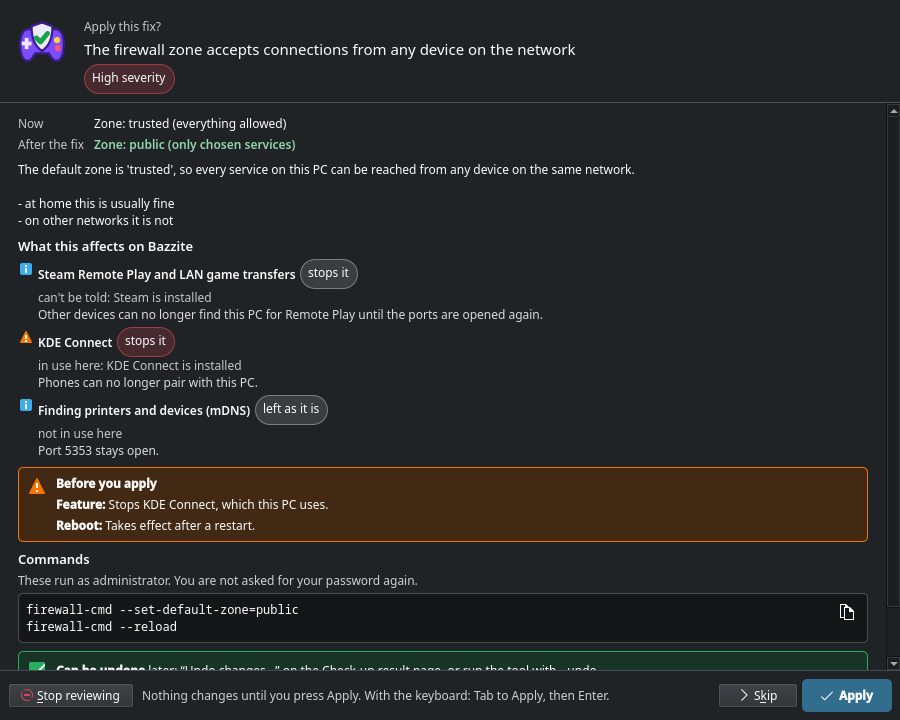
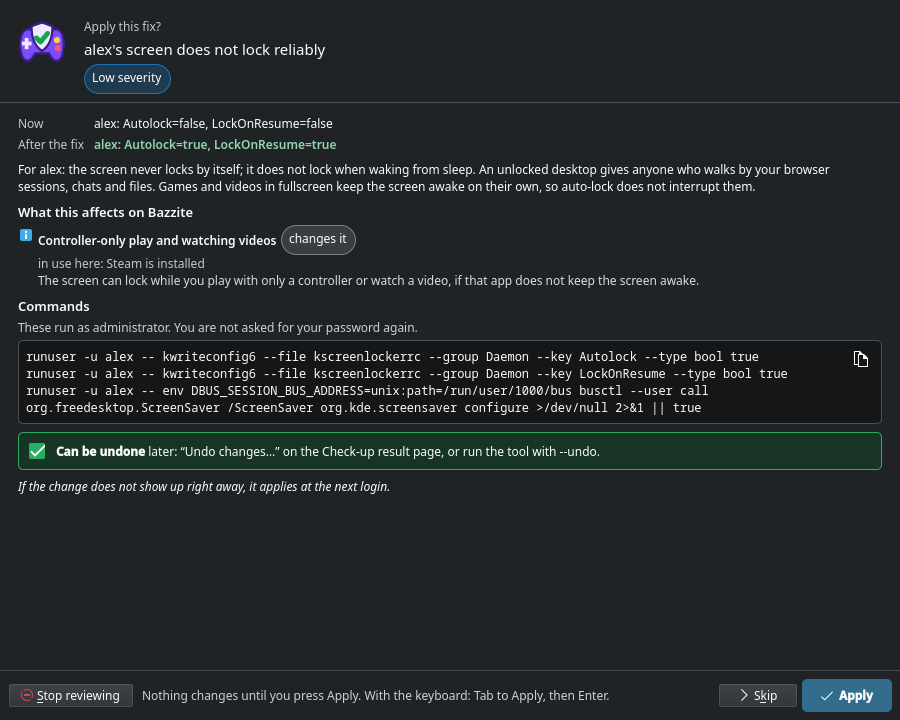
README screenshots: real fix data, numbers that add up, the whole page
- The picture of a fix shows the real screen-lock fix: the sample
  "confirm-readme" is what the root side sends for it, made by
  tests/ui/readme-confirm.sh (no root), and make test fails when the two
  differ. It is short enough that "Can be undone" is in view.
- The check-up result's sample: fixed 3 (2 checked again, 1 after a
  reboot), so the numbers add up.
- The readme scenario makes no pictures without the Breeze dark scheme
  and an icon theme (it fails instead); a picture that cannot be saved
  fails the run. docs/ui.md says how to make them.
- README: the fix on a row of its own, the progress window under it; alt
  texts say what each picture shows. CHANGELOG: one line for the pictures.

diff --git a/tests/ui-offscreen.py b/tests/ui-offscreen.py
@@ -281,7 +281,8 @@ def key(k, repeat=False, text=""):
 
 def shot(name, win=None):
     if SHOTS:
-        (win or shell).grabWindow().save(os.path.join(SHOTS, name + ".png"))
+        path = os.path.join(SHOTS, name + ".png")
+        check((win or shell).grabWindow().save(path), "picture saved: %s" % path)
 
 
 def prop(name):
@@ -3186,21 +3187,32 @@ def sc_contrast():
 
 
 def sc_readme():
-    """The README's pictures (docs/screenshots), from the sample data in the
-    dark theme where it is installed: the wizard's first step, the check-up
-    result, a fix to confirm, and the progress window holding at 90% during
-    the malware scan (the line ui_progress_set sends for it). Made with
-    --shots DIR readme; without --shots it only checks that each one shows."""
+    """The README's pictures (docs/screenshots), made with
+    "--shots DIR readme" and copied to docs/screenshots: the wizard's first
+    step, the check-up result, a fix to confirm and the progress window
+    holding at 90% during the malware scan, in the dark theme with the
+    desktop's icons. The sample data has nothing from a real PC; the fix
+    ("confirm-readme") is what the root side sends for the real screen-lock fix
+    (tests/ui/readme-confirm.sh makes it), and the progress line is the one ui_progress_set
+    sends for the scan. Without --shots it only checks that each one shows.
+    With --shots, where the Breeze dark colour scheme or an icon theme is
+    missing, it makes no pictures and fails: they would not match the README."""
+    from PySide6.QtGui import QIcon
     S = SAMPLES
     path = appmod._scheme_path("dark")
+    icons = QIcon.hasThemeIcon("dialog-ok-apply")
+    if SHOTS and not (path and icons):
+        check(False, "readme: the Breeze dark colour scheme (%s) and an icon theme (%s) are here, for the README's pictures"
+              % ("yes" if path else "no", "yes" if icons else "no"))
+        send({"quit": True})
+        return
     if path:
         send({"theme": "dark"})
         yield W(lambda: (app.property("KDE_COLOR_SCHEME_PATH") or "") == path, "readme: the dark theme is set")
         yield P(0.3)
-    else:
-        say("     note: the Breeze dark colour scheme is not installed here: the pictures are in the colours as they come")
-    for rid, mode, name in (("r1", "wizard", "wizard"), ("r2", "dashboard", "dashboard-dark"), ("r3", "confirm", "confirm")):
-        if (yield from show(rid, mode, S[mode], "readme: " + mode)):
+    for rid, mode, sample, name in (("r1", "wizard", "wizard", "wizard"), ("r2", "dashboard", "dashboard", "dashboard-dark"),
+                                    ("r3", "confirm", "confirm-readme", "confirm")):
+        if (yield from show(rid, mode, S[sample], "readme: " + sample)):
             yield P(0.3)
             shot(name)
     send({"progress": "start", "heading": "Checking your PC"})

diff --git a/README.md b/README.md
@@ -22,7 +22,7 @@ It is a desktop-friendly counterpart to [ubuntu-sec-audit](https://github.com/se
 
 <p align="center">
   <img src="docs/screenshots/wizard.png" width="49%" alt="The setup wizard">
-  <img src="docs/screenshots/dashboard-dark.png" width="49%" alt="The check-up result: the score, what changed, and every check">
+  <img src="docs/screenshots/dashboard-dark.png" width="49%" alt="The check-up result: the score, what changed since the last check-up, and the start of the list of checks">
 </p>
 
 ## Features
@@ -36,8 +36,10 @@ It is a desktop-friendly counterpart to [ubuntu-sec-audit](https://github.com/se
 - **Optional weekly check.** A report-only background run with a desktop notification.
 
 <p align="center">
-  <img src="docs/screenshots/confirm.png" width="49%" alt="A fix to confirm: the setting now and after, what it affects on this PC, and its exact commands">
-  <img src="docs/screenshots/progress.png" width="49%" alt="The progress window holding at 90% during the malware scan">
+  <img src="docs/screenshots/confirm.png" width="70%" alt="A fix to confirm: the setting now and after, what it affects on this PC, its exact commands, and that it can be undone">
+</p>
+<p align="center">
+  <img src="docs/screenshots/progress.png" width="60%" alt="The progress window holding at 90% during the malware scan">
 </p>
 
 ## Requirements

diff --git a/docs/ui.md b/docs/ui.md
@@ -178,6 +178,12 @@ Without a display, save a picture of every page:
 
     python3 -I tests/ui-offscreen.py --shots /tmp/shots pages
 
+The README's pictures (`docs/screenshots`) come from the `readme` scenario, on a KDE desktop with the Breeze colour schemes and icon theme (without them it makes no pictures and fails). Copy the four files it writes into `docs/screenshots`:
+
+    python3 -I tests/ui-offscreen.py --shots /tmp/shots readme
+
+Its fix to confirm is the sample `confirm-readme`: what the root side sends for the screen-lock fix. `make test` fails when the two differ; make the sample again with `bash tests/ui/readme-confirm.sh` (no root needed) rather than by hand.
+
 The same scenarios run in real windows of the session, for a look at them on a real desktop, with `BSA_UI_TEST_PLATFORM=wayland` (or `xcb`) in front. The default is off-screen, and CI uses only that. Checks that need the real keyboard focus or the real clipboard can fail there while another window is in front.
 
 ## Tests

diff --git a/CHANGELOG.md b/CHANGELOG.md
@@ -34,9 +34,8 @@ All notable changes to this project are listed here. The format follows
   without them Security Check goes back to plain KDE dialogs (only for a
   package that is really layered: a request for one the image already has
   changes nothing when removed).
-- `tests/ui-offscreen.py --shots DIR readme` renders the README's
-  screenshots from the sample data, in the dark theme; they show the
-  current window, and a fix to confirm with its commands is new.
+- New README screenshots of the 1.6.0 window, including a fix waiting to be
+  confirmed.
 
 ### Changed
 
